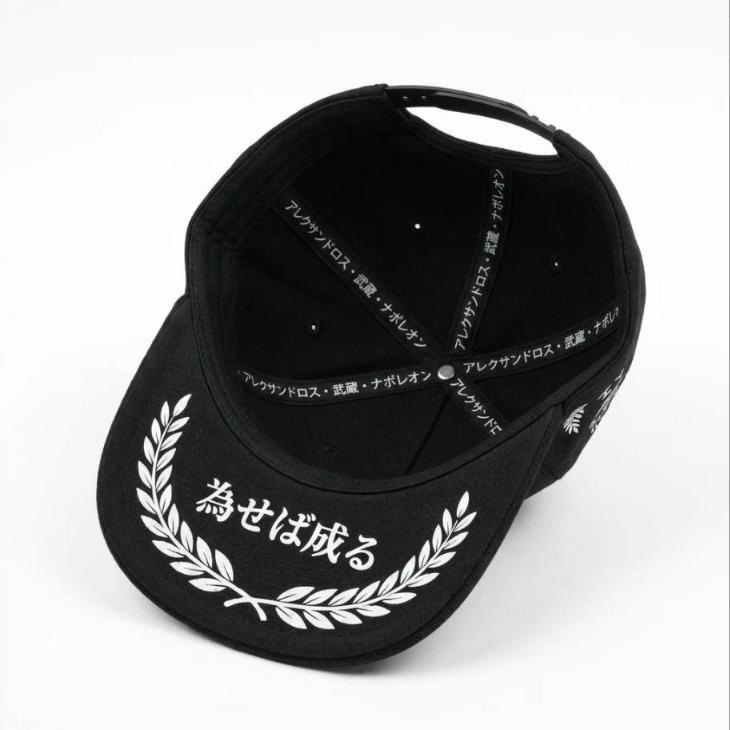
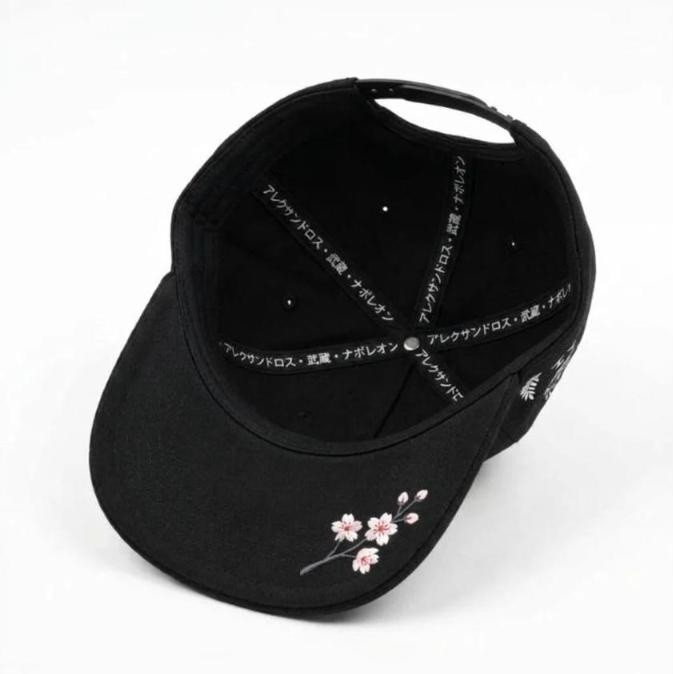
v9: frente de cerezo en la total black
El frente ya no lleva letras ni 益智X: ahora sube una enredadera de cerezo y
un ramito baja a la visera. El bajo visera queda negro liso con un ramito.
Fotos de la negra a 1024 px y planos de frente y bajo visera nuevos. La roja
sigue con el frente de la v8 y la página lo indica.

Claude-Session: https://claude.ai/code/session_018tfM2wmJfB5Sf4vx6Nwtsx

diff --git a/index.html b/index.html
@@ -8,7 +8,7 @@
 <link rel="preconnect" href="https://fonts.googleapis.com">
 <link rel="preconnect" href="https://fonts.gstatic.com" crossorigin>
 <link rel="stylesheet" href="https://fonts.googleapis.com/css2?family=Marcellus&family=IBM+Plex+Sans:wght@400;500;600&family=IBM+Plex+Mono:wght@400;500&display=swap">
-<link rel="stylesheet" href="https://fonts.googleapis.com/css2?family=Yuji+Boku&display=swap&text=%E3%81%84%E3%81%8C%E3%81%9B%E3%81%AA%E3%81%AB%E3%81%AE%E3%81%AF%E3%81%B0%E3%81%B8%E3%82%8B%E3%82%A2%E3%82%AA%E3%82%AF%E3%82%B1%E3%82%B5%E3%82%B9%E3%83%89%E3%83%8A%E3%83%8B%E3%83%9D%E3%83%9E%E3%83%AC%E3%83%AD%E3%83%B3%E4%B8%8D%E5%8F%AF%E5%A4%A7%E5%BC%B7%E6%88%90%E6%88%91%E6%9B%B8%E6%9C%80%E6%AD%A6%E7%82%BA%E7%8B%AC%E7%8E%8B%E8%80%85%E8%83%BD%E8%94%B5%E8%A1%8C%E8%BE%9E%E9%81%93%E3%83%BB%C2%B7%E7%9B%8A%E6%99%BAX">
+<link rel="stylesheet" href="https://fonts.googleapis.com/css2?family=Yuji+Boku&display=swap&text=%E3%81%84%E3%81%8C%E3%81%9B%E3%81%AA%E3%81%AB%E3%81%AE%E3%81%AF%E3%81%B0%E3%81%B8%E3%82%8B%E3%82%A2%E3%82%AA%E3%82%AF%E3%82%B1%E3%82%B5%E3%82%B9%E3%83%89%E3%83%8A%E3%83%8B%E3%83%9D%E3%83%9E%E3%83%AC%E3%83%AD%E3%83%B3%E4%B8%8D%E5%8F%AF%E5%A4%A7%E5%BC%B7%E6%88%90%E6%88%91%E6%9B%B8%E6%9C%80%E6%AD%A6%E7%82%BA%E7%8B%AC%E7%8E%8B%E8%80%85%E8%83%BD%E8%94%B5%E8%A1%8C%E8%BE%9E%E9%81%93%E3%83%BB%C2%B7%E7%9B%8A%E6%99%BAX%E6%A1%9C">
 <style>
 /* Layout: ficha técnica de taller. Plano a escala (cuadrícula de 10 mm) a la izquierda, especificación a la derecha; todo en una columna en el celular */
 :root {
@@ -339,14 +339,14 @@ footer { font-family: var(--f-mono); font-size: .76rem; color: var(--muted); bor
 
   <header class="hero">
     <div class="hero-text">
-      <span class="eyebrow">Gorra A-frame · Ficha técnica v8 · 19 oct 2026</span>
+      <span class="eyebrow">Gorra A-frame · Ficha técnica v9 · 20 oct 2026</span>
       <h1>Kratistos<span class="jp">最強の者へ</span></h1>
-      <p class="lead">Una gorra de uso diario con tres figuras que no aceptaron lo imposible. Alejandro va al frente y en el costado izquierdo, Musashi en el derecho y la corona de Napoleón en la espalda. Toda la letra va en japonés. Viene en dos colores con el mismo diseño: rojo cardenal con hilo piedra, y total black con hilo blanco.</p>
+      <p class="lead">Una gorra de uso diario con tres figuras que no aceptaron lo imposible. Al frente sube una enredadera de cerezo bordada; Alejandro va en el costado izquierdo, Musashi en el derecho y la corona de Napoleón en la espalda. Desde la v9 el frente ya no lleva letras. La total black está al día; la roja todavía muestra el frente anterior.</p>
       <ul class="facts">
         <li>Estructura A-frame de copa alta, frente rígido sin costura</li>
         <li>Dos colores: rojo cardenal y total black</li>
-        <li><span class="jp" lang="ja">益智X</span> al frente, en el color de la otra gorra</li>
-        <li>Toda la letra en japonés: kanji y katakana con trazo de pincel</li>
+        <li>Al frente, una enredadera de cerezo (<span class="jp" lang="ja">桜</span>) bordada en relieve</li>
+        <li>Costados y espalda en japonés, con trazo de pincel</li>
         <li>Talla ajustable de 56 a 60 cm</li>
       </ul>
       <nav class="jump" aria-label="Ir a cada color">
@@ -356,12 +356,12 @@ footer { font-family: var(--f-mono); font-size: .76rem; color: var(--muted); bor
     </div>
     <div class="duo">
       <figure>
-        <img src="img/r-frente.jpg" alt="Gorra roja: 最強の者へ en arco, アレクサンドロス, マケドニア y 益智X en negro al frente; busto griego en el costado" width="730" height="730">
-        <figcaption><span class="dot" style="background:var(--twill)"></span>Rojo cardenal</figcaption>
+        <img src="img/n-frente.jpg" alt="Gorra total black con la enredadera de cerezo bordada al frente y el busto en el costado" width="1024" height="1024">
+        <figcaption><span class="dot" style="background:var(--black)"></span>Total black · frente de cerezo (v9)</figcaption>
       </figure>
       <figure>
-        <img src="img/n-frente.jpg" alt="Gorra total black: la misma letra japonesa y el busto en blanco, con 益智X en rojo" width="730" height="730">
-        <figcaption><span class="dot" style="background:var(--black)"></span>Total black</figcaption>
+        <img src="img/r-frente.jpg" alt="Gorra roja con el frente anterior: 最強の者へ en arco, アレクサンドロス, マケドニア y 益智X en negro" width="730" height="730">
+        <figcaption><span class="dot" style="background:var(--twill)"></span>Rojo cardenal · frente anterior (v8)</figcaption>
       </figure>
     </div>
   </header>
@@ -370,16 +370,16 @@ footer { font-family: var(--f-mono); font-size: .76rem; color: var(--muted); bor
     <div class="section-head">
       <span class="eyebrow">Concepto</span>
       <h2 id="h-concepto">Tres figuras, una frase</h2>
-      <p>Cada zona de la gorra corresponde a una figura. Toda la letra va en japonés, con el mismo trazo de pincel que los kanji de Musashi. Debajo de la visera está la frase que las une.</p>
+      <p>Cada zona de la gorra corresponde a una figura, y al frente va el cerezo. La letra va en japonés, con el mismo trazo de pincel que los kanji de Musashi.</p>
     </div>
     <div class="figures">
       <article class="fig">
         <span class="tag">Frente</span>
-        <h3>Alejandro Magno</h3>
-        <p class="phrase" lang="ja">最強の者へ</p>
-        <p class="reading">saikyō no mono e</p>
-        <p class="tr">«Al más fuerte»</p>
-        <p class="note">Según Arriano, fue su respuesta en el lecho de muerte cuando le preguntaron a quién dejaba el imperio. Debajo dice アレクサンドロス (Alexandros) y マケドニア (Macedonia). Al pie va 益智X, chiquito, en el color de la otra gorra.</p>
+        <h3>El cerezo</h3>
+        <p class="phrase" lang="ja">桜</p>
+        <p class="reading">sakura</p>
+        <p class="tr">«Flor de cerezo»</p>
+        <p class="note">Una rama gris oxford sube por el frente y un ramito baja a la visera. 最強の者へ («al más fuerte»), la respuesta de Alejandro cuando le preguntaron a quién dejaba el imperio, sigue siendo el lema de la marca, pero ya no va bordado.</p>
       </article>
       <article class="fig">
         <span class="tag">Costado izquierdo</span>
@@ -408,7 +408,7 @@ footer { font-family: var(--f-mono); font-size: .76rem; color: var(--muted); bor
     </div>
     <div class="binding">
       <p class="phrase" lang="ja">為せば成る</p>
-      <p>«Si lo intentas, se logra». La frase es de Uesugi Yōzan, un señor feudal del siglo XVIII. Va estampada bajo la visera: solo la ve quien lleva la gorra.</p>
+      <p>«Si lo intentas, se logra». La frase es de Uesugi Yōzan, un señor feudal del siglo XVIII. Hasta la v8 iba bajo la visera; en la v9 ahí va solo un ramito de cerezo y la frase pasa a la etiqueta.</p>
     </div>
   </section>
 
@@ -423,7 +423,7 @@ footer { font-family: var(--f-mono); font-size: .76rem; color: var(--muted); bor
         <div class="band-head">
           <span class="eyebrow">Color 1</span>
           <h3 id="h-roja" class="view-title">Rojo cardenal</h3>
-          <p>Sarga roja con todo el bordado en hilo piedra y los detalles tono sobre tono en vino.</p>
+          <p>Sarga roja con todo el bordado en hilo piedra y los detalles tono sobre tono en vino. <strong>Ojo:</strong> esta vitrina todavía muestra el frente anterior (letras y 益智X); el cerezo de la v9 aún no se pasa a la roja.</p>
           <div class="chips">
             <span><i style="background:#9B1B26"></i>Sarga rojo cardenal</span>
             <span><i style="background:#D6CBB0"></i>Hilo piedra</span>
@@ -457,12 +457,12 @@ footer { font-family: var(--f-mono); font-size: .76rem; color: var(--muted); bor
         <div class="band-head">
           <span class="eyebrow">Color 2</span>
           <h3 id="h-negra" class="view-title">Total black</h3>
-          <p>Todo negro, de la tela a la correa, con el bordado en blanco y las sombras en gris carbón.</p>
+          <p>Todo negro, de la tela a la correa, con el bordado en blanco y las sombras en gris carbón. Al frente, la enredadera de cerezo en rosa pastel.</p>
           <div class="chips">
             <span><i style="background:#111111"></i>Sarga negra</span>
             <span><i style="background:#F5F5F2"></i>Hilo blanco</span>
             <span><i style="background:#3A3A3A"></i>Detalles gris carbón</span>
-            <span><i style="background:#9B1B26"></i><span class="jp" lang="ja">益智X</span> en rojo</span>
+            <span><i style="background:#F2C4CF"></i>Cerezo rosa pastel</span>
             <span><i style="background:#2B2B2B"></i>Hebilla negra mate</span>
           </div>
         </div>
@@ -475,12 +475,12 @@ footer { font-family: var(--f-mono); font-size: .76rem; color: var(--muted); bor
             <p class="view-title view-name">Frente</p>
             <p class="view-desc"></p>
             <div class="thumbs">
-              <button type="button" class="thumb" data-src="img/n-frente.jpg" data-title="Frente" data-desc="最強の者へ en arco, アレクサンドロス y マケドニア en blanco, con 益智X chiquito en rojo cardenal al pie. Del costado asoma el busto." data-alt="Gorra negra de tres cuartos: letra japonesa en blanco y 益智X en rojo"><img src="img/n-frente.jpg" alt="" loading="lazy">Frente</button>
-              <button type="button" class="thumb" data-src="img/n-busto.jpg" data-title="Costado izquierdo" data-desc="El busto griego de Alejandro en blanco, con sombras gris carbón, entre dos laureles y con el sello 大王." data-alt="Costado izquierdo de la gorra negra con el busto en blanco y el sello 大王"><img src="img/n-busto.jpg" alt="" loading="lazy">Izquierda</button>
-              <button type="button" class="thumb" data-src="img/n-musashi.jpg" data-title="Costado derecho" data-desc="Musashi: el ensō en gris carbón, las katanas y 独行道 en blanco, y el sello 武蔵." data-alt="Costado derecho de la gorra negra con ensō, katanas, 独行道 y el sello 武蔵"><img src="img/n-musashi.jpg" alt="" loading="lazy">Derecha</button>
+              <button type="button" class="thumb" data-src="img/n-frente.jpg" data-title="Frente" data-desc="Una rama de cerezo gris oxford sube por el frente, con flores rosa pastel y blanco de centro rojo cardenal, y un ramito baja a la visera. Del costado asoma el busto." data-alt="Gorra negra de tres cuartos con la enredadera de cerezo bordada al frente"><img src="img/n-frente.jpg" alt="" loading="lazy">Frente</button>
+              <button type="button" class="thumb" data-src="img/n-busto.jpg" data-title="Costado izquierdo" data-desc="El busto griego de Alejandro en blanco, con sombras gris carbón, entre dos laureles y con el sello 大王. Por la orilla asoma el cerezo del frente." data-alt="Costado izquierdo de la gorra negra con el busto en blanco y el sello 大王"><img src="img/n-busto.jpg" alt="" loading="lazy">Izquierda</button>
+              <button type="button" class="thumb" data-src="img/n-musashi.jpg" data-title="Costado derecho" data-desc="Musashi: el ensō en gris carbón, las katanas y 独行道 en blanco, y el sello 武蔵. Del otro lado asoma el cerezo." data-alt="Costado derecho de la gorra negra con ensō, katanas, 独行道 y el sello 武蔵"><img src="img/n-musashi.jpg" alt="" loading="lazy">Derecha</button>
               <button type="button" class="thumb" data-src="img/n-espalda.jpg" data-title="Espalda" data-desc="La corona real en blanco con perlas, entre dos laureles, y 我が辞書に不可能はない en arco. La hebilla es negra mate." data-alt="Espalda de la gorra negra con la corona blanca, los laureles y la frase en arco"><img src="img/n-espalda.jpg" alt="" loading="lazy">Espalda</button>
-              <button type="button" class="thumb" data-src="img/n-bajo-visera.jpg" data-title="Bajo visera" data-desc="Bajo visera negro con 為せば成る en blanco entre laureles, y la cinta interior アレクサンドロス · 武蔵 · ナポレオン." data-alt="Gorra negra boca arriba: bajo visera con 為せば成る y la cinta interior en blanco"><img src="img/n-bajo-visera.jpg" alt="" loading="lazy">Bajo visera</button>
-              <button type="button" class="thumb" data-src="img/n-lifestyle.jpg" data-title="Puesta" data-desc="Así se ve de uso diario, en la calle, en la misma toma que la roja para compararlas." data-alt="Un joven con la gorra negra en una calle de piedra"><img src="img/n-lifestyle.jpg" alt="" loading="lazy" style="object-position:50% 25%">Puesta</button>
+              <button type="button" class="thumb" data-src="img/n-bajo-visera.jpg" data-title="Bajo visera" data-desc="Bajo visera negro liso con un solo ramito de cerezo, y la cinta interior アレクサンドロス · 武蔵 · ナポレオン." data-alt="Gorra negra boca arriba: bajo visera liso con un ramito de cerezo y la cinta interior"><img src="img/n-bajo-visera.jpg" alt="" loading="lazy">Bajo visera</button>
+              <button type="button" class="thumb" data-src="img/n-lifestyle.jpg" data-title="Puesta" data-desc="Así se ve de uso diario, en la calle, en la misma toma que la roja para compararlas." data-alt="Un joven con la gorra negra de cerezo en una calle de piedra"><img src="img/n-lifestyle.jpg" alt="" loading="lazy" style="object-position:50% 25%">Puesta</button>
             </div>
             <span class="hint">Toca la foto para verla en grande<span class="touch-only"> · desliza de lado para cambiar de vista</span></span>
           </div>
@@ -493,55 +493,29 @@ footer { font-family: var(--f-mono); font-size: .76rem; color: var(--muted); bor
     <div class="section-head">
       <span class="eyebrow">Arte por zona</span>
       <h2 id="h-arte">Planos para el taller de bordado</h2>
-      <p>Cada plano muestra el panel extendido, antes de armar, sobre una cuadrícula de 10 mm. Las cotas están en milímetros. Los planos están en la versión roja; la total black usa el mismo arte, con hilo blanco donde va piedra y gris carbón donde va vino.<span class="phone-only"> En el celular, desliza cada plano de lado para verlo completo.</span></p>
+      <p>Cada plano muestra el panel extendido, antes de armar, sobre una cuadrícula de 10 mm. Las cotas están en milímetros. Los planos de costados, espalda y visera están en la versión roja; la total black usa el mismo arte, con hilo blanco donde va piedra y gris carbón donde va vino. El frente y el bajo visera ya van en la total black de la v9.<span class="phone-only"> En el celular, desliza cada plano de lado para verlo completo.</span></p>
     </div>
 
     <div class="zones">
       <article class="zone">
         <figure class="plate">
-          <svg class="art" id="svgFront" viewBox="0 0 260 165" role="img" aria-label="Panel frontal con 最強の者へ en arco, アレクサンドロス, マケドニア y 益智X en negro, con cotas de 105 por 64 milímetros">
+          <svg class="art cw-black" id="svgFront" viewBox="0 0 260 165" role="img" aria-label="Panel frontal con la enredadera de cerezo y el ramito que baja a la visera, con cotas de 110 por 125 milímetros">
             <rect class="gridrect" width="260" height="165"/>
             <path class="tw" d="M20,145 C24,70 70,15 130,15 C190,15 236,70 240,145 Q130,151 20,145 Z"/>
             <path class="seam" d="M20,145 Q130,151 240,145"/>
-            <path id="arcF" d="M80,94 Q130,66 180,94" fill="none"/>
-            <text class="t-kanji st" font-size="18" letter-spacing="1.2"><textPath href="#arcF" startOffset="50%" text-anchor="middle">最強の者へ</textPath></text>
-            <text class="t-kanji st" x="130" y="98" font-size="8" letter-spacing=".6" text-anchor="middle">アレクサンドロス</text>
-            <text class="t-kanji st" x="130" y="112" font-size="12" letter-spacing="1" text-anchor="middle">マケドニア</text>
-            <text class="t-kanji" x="130" y="128" font-size="8" letter-spacing=".8" text-anchor="middle" style="fill:var(--black)">益智X</text>
+            <image href="img/arte-cerezo.jpg" x="75" y="20" width="110" height="126.3" preserveAspectRatio="xMidYMid meet"/>
+            <rect class="refframe" x="75" y="20" width="110" height="126.3"/>
             <g id="dimFront"></g>
           </svg>
         </figure>
         <div class="spec">
-          <header><span class="tag">Zona 1 · Frente</span><h3>Alejandro Magno</h3></header>
+          <header><span class="tag">Zona 1 · Frente</span><h3>Enredadera de cerezo</h3></header>
           <dl>
-            <dt>Medida</dt><dd>105 × 64 mm con 益智X, centrado en el panel</dd>
-            <dt>Ubicación</dt><dd>益智X va a 15 mm de la costura de la visera (ver zona 2)</dd>
-            <dt>Técnica</dt><dd>Kanji y kana en satén con trazo de pincel; en los trazos gruesos, relleno tatami</dd>
-            <dt>Hilo</dt><dd>Piedra en la roja · blanco en la total black. 益智X va en el color de la otra gorra.</dd>
-            <dt>Ojo</dt><dd>Revisar cada carácter en la prueba: <span class="jp" lang="ja">最 強 の 者 へ · ア レ ク サ ン ド ロ ス · マ ケ ド ニ ア</span>. La línea en katakana mide 5 mm de alto: usar hilo fino (60 wt).</dd>
-          </dl>
-        </div>
-      </article>
-
-      <article class="zone">
-        <figure class="plate">
-          <svg class="art" id="svgMark" viewBox="0 0 150 60" role="img" aria-label="益智X bordado en negro sobre rojo y en rojo sobre negro, detalle a escala 2:1">
-            <rect class="gridrect" width="150" height="60"/>
-            <rect x="5" y="3" width="66" height="46" rx="2" class="tw"/>
-            <text class="t-kanji" x="38" y="32" font-size="16" letter-spacing="1.6" text-anchor="middle" style="fill:var(--black)">益智X</text>
-            <rect x="79" y="3" width="66" height="46" rx="2" style="fill:var(--black)"/>
-            <text class="t-kanji" x="112" y="32" font-size="16" letter-spacing="1.6" text-anchor="middle" style="fill:var(--twill)">益智X</text>
-            <g id="dimMark"></g>
-          </svg>
-        </figure>
-        <div class="spec">
-          <header><span class="tag">Zona 2 · Frente, al pie</span><h3><span class="jp" lang="ja">益智X</span></h3></header>
-          <dl>
-            <dt>Medida</dt><dd>8 mm de alto y unos 24 mm de ancho (el plano está a escala 2:1)</dd>
-            <dt>Ubicación</dt><dd>Centrado bajo マケドニア, a 15 mm de la costura de la visera. Reemplaza a la insignia de la v7.</dd>
-            <dt>Técnica</dt><dd>Bordado plano en satén, sin relleno de relieve. Es chico a propósito: es un detalle, no compite con la letra grande.</dd>
-            <dt>Color</dt><dd>Lleva el color de la otra gorra: negro (#111111) en la roja y rojo cardenal (#9B1B26) en la total black</dd>
-            <dt>Ojo</dt><dd>Tres caracteres: <span class="jp" lang="ja">益 智</span> y la X latina mayúscula</dd>
+            <dt>Medida</dt><dd>≈ 110 × 125 mm en total: la rama llena el frente y el ramito baja unos 25 mm sobre la visera</dd>
+            <dt>Ubicación</dt><dd>La rama nace abajo a la izquierda, junto a la costura de la visera, y sube en diagonal hasta la parte alta derecha del frente. El ramito va sobre la visera, a la izquierda, por dentro de la greca.</dd>
+            <dt>Técnica</dt><dd>Pétalos en satén con un poco de relleno para dar relieve; centros en nudos rojo cardenal; rama en tatami gris oxford con contorno; botones y pétalos sueltos en satén chico</dd>
+            <dt>Hilo</dt><dd>Total black: rama gris oxford (#4A4D57), pétalos rosa pastel (#F2C4CF) y blanco, centros rojo cardenal (#9B1B26). La roja todavía no tiene versión de cerezo.</dd>
+            <dt>Ojo</dt><dd>El arte es la foto de referencia: el taller digitaliza a partir de ella. Ya no lleva letras ni 益智X.</dd>
           </dl>
         </div>
       </article>
@@ -562,7 +536,7 @@ footer { font-family: var(--f-mono); font-size: .76rem; color: var(--muted); bor
           </svg>
         </figure>
         <div class="spec">
-          <header><span class="tag">Zona 3 · Costado izquierdo</span><h3>Grecia · el busto</h3></header>
+          <header><span class="tag">Zona 2 · Costado izquierdo</span><h3>Grecia · el busto</h3></header>
           <dl>
             <dt>Medida</dt><dd>El conjunto mide 92 × 80 mm; el busto solo, 55 × 62 mm</dd>
             <dt>Ubicación</dt><dd>Centrado en el panel; el sello va a 16 mm de la costura inferior</dd>
@@ -591,7 +565,7 @@ footer { font-family: var(--f-mono); font-size: .76rem; color: var(--muted); bor
           </svg>
         </figure>
         <div class="spec">
-          <header><span class="tag">Zona 4 · Costado derecho</span><h3>Miyamoto Musashi</h3></header>
+          <header><span class="tag">Zona 3 · Costado derecho</span><h3>Miyamoto Musashi</h3></header>
           <dl>
             <dt>Medida</dt><dd>105 × 66 mm, el mismo peso visual que el busto</dd>
             <dt>Ubicación</dt><dd>Centrado en el panel; el sello va a 24 mm de la costura inferior</dd>
@@ -622,7 +596,7 @@ footer { font-family: var(--f-mono); font-size: .76rem; color: var(--muted); bor
           </svg>
         </figure>
         <div class="spec">
-          <header><span class="tag">Zona 5 · Espalda</span><h3>La corona</h3></header>
+          <header><span class="tag">Zona 4 · Espalda</span><h3>La corona</h3></header>
           <dl>
             <dt>Medida</dt><dd>La corona mide 60 mm de ancho; la frase va en un arco de 108 mm y cada laurel mide 46 mm</dd>
             <dt>Ubicación</dt><dd>Centrado sobre la costura trasera; la base de la corona va a 8 mm de la abertura</dd>
@@ -643,33 +617,36 @@ footer { font-family: var(--f-mono); font-size: .76rem; color: var(--muted); bor
           </svg>
         </figure>
         <div class="spec">
-          <header><span class="tag">Zona 6 · Visera</span><h3>Greca griega</h3></header>
+          <header><span class="tag">Zona 5 · Visera</span><h3>Greca griega</h3></header>
           <dl>
             <dt>Medida</dt><dd>Banda de 4 mm a lo largo de todo el borde exterior</dd>
             <dt>Ubicación</dt><dd>A 2 mm del canto, por fuera de los 8 pespuntes</dd>
             <dt>Técnica</dt><dd>Pespunte triple (bean stitch), tono sobre tono: vino en la roja, gris carbón en la total black</dd>
             <dt>Pespuntes</dt><dd>8 filas tono sobre tono</dd>
+            <dt>Cerezo</dt><dd>El ramito del frente baja sobre la visera, por dentro de la greca (ver zona 1)</dd>
           </dl>
         </div>
       </article>
 
       <article class="zone">
         <figure class="plate">
-          <svg class="art" id="svgUnder" viewBox="0 0 260 130" role="img" aria-label="Bajo visera gris con corona de laurel y 為せば成る">
+          <svg class="art" id="svgUnder" viewBox="0 0 260 130" role="img" aria-label="Bajo visera negro liso con un ramito de cerezo cerca de la esquina izquierda">
             <rect class="gridrect" width="260" height="130"/>
-            <path d="M15,40 Q130,190 245,40 L215,25 Q130,80 45,25 Z" style="fill:var(--brim-grey)"/>
+            <path d="M15,40 Q130,190 245,40 L215,25 Q130,80 45,25 Z" style="fill:var(--black)"/>
             <g id="underBrim"></g>
-            <text class="t-kanji st" x="130" y="86" font-size="13" letter-spacing="1.2" text-anchor="middle">為せば成る</text>
+            <image href="img/arte-ramito.jpg" x="62" y="58" width="50" height="37.5" preserveAspectRatio="xMidYMid meet"/>
+            <rect class="refframe" x="62" y="58" width="50" height="37.5"/>
             <g id="dimUnder"></g>
           </svg>
         </figure>
         <div class="spec">
-          <header><span class="tag">Zona 7 · Bajo visera</span><h3>La frase que las une</h3></header>
+          <header><span class="tag">Zona 6 · Bajo visera</span><h3>Un ramito de cerezo</h3></header>
           <dl>
-            <dt>Medida</dt><dd>70 × 45 mm, centrado</dd>
-            <dt>Técnica</dt><dd>Serigrafía a una tinta, antes de armar la visera</dd>
-            <dt>Colores</dt><dd>Roja: tela gris con tinta piedra (en el mockup salió gris oscuro, que también funciona). Total black: tela negra con tinta blanca.</dd>
-            <dt>Ojo</dt><dd><span class="jp" lang="ja">為 せ ば 成 る</span>, cuatro caracteres</dd>
+            <dt>Medida</dt><dd>≈ 50 × 38 mm</dd>
+            <dt>Ubicación</dt><dd>Cerca de la esquina izquierda del bajo visera; el resto queda negro liso</dd>
+            <dt>Técnica</dt><dd>Bordado plano antes de armar la visera (si el taller no borda ahí, estampado)</dd>
+            <dt>Colores</dt><dd>Total black: bajo visera negro, rama gris oxford y flores rosa pastel con centro rojo. La roja: pendiente.</dd>
+            <dt>Ojo</dt><dd>En la v9 se quitaron los laureles y <span class="jp" lang="ja">為せば成る</span> de la v8</dd>
           </dl>
         </div>
       </article>
@@ -681,7 +658,7 @@ footer { font-family: var(--f-mono); font-size: .76rem; color: var(--muted); bor
           <span class="eyebrow">Cinta de 15 mm · repetición cada 80 mm</span>
         </div>
         <div class="spec">
-          <header><span class="tag">Zona 8 · Interior</span><h3>Cinta interior</h3></header>
+          <header><span class="tag">Zona 7 · Interior</span><h3>Cinta interior</h3></header>
           <dl>
             <dt>Cinta</dt><dd>Cubre las costuras internas. Lleva los tres nombres en bucle: Alejandro, Musashi y Napoleón.</dd>
             <dt>Colores</dt><dd>Piedra sobre rojo en la roja; blanco sobre negro en la total black</dd>
@@ -700,10 +677,10 @@ footer { font-family: var(--f-mono); font-size: .76rem; color: var(--muted); bor
       <table>
         <tbody>
           <tr><th scope="row">Modelo</th><td>A-frame de copa alta, 5 paneles: frente alto y rígido con entretela (buckram), sin costura central, que sube recto desde la visera. Dos paneles laterales y dos traseros.</td></tr>
-          <tr><th scope="row">Colores</th><td>Rojo cardenal, con hilo piedra y detalles en vino. Total black, con hilo blanco y detalles en gris carbón. El diseño es el mismo en los dos.</td></tr>
+          <tr><th scope="row">Colores</th><td>Rojo cardenal, con hilo piedra y detalles en vino. Total black, con hilo blanco y detalles en gris carbón. Desde la v9 el frente es de cerezo; la roja todavía tiene el frente anterior.</td></tr>
           <tr><th scope="row">Tela</th><td>Sarga de algodón 100 %</td></tr>
           <tr><th scope="row">Visera</th><td>Precurvada, con 8 pespuntes tono sobre tono y la greca. Bajo visera: gris en la roja, negro en la total black.</td></tr>
-          <tr><th scope="row">益智X</th><td>Bordado plano de 8 mm al pie del frente (zona 2): negro en la roja, rojo cardenal en la total black</td></tr>
+          <tr><th scope="row">Cerezo</th><td>Enredadera bordada al frente con un ramito sobre la visera (zona 1) y un ramito chiquito bajo la visera (zona 6). Por ahora solo en la total black.</td></tr>
           <tr><th scope="row">Ojales</th><td>4, bordados tono sobre tono (2 laterales y 2 traseros)</td></tr>
           <tr><th scope="row">Botón</th><td>Forrado en la misma tela</td></tr>
           <tr><th scope="row">Banda interior</th><td>Algodón, para el sudor</td></tr>
@@ -718,7 +695,7 @@ footer { font-family: var(--f-mono); font-size: .76rem; color: var(--muted); bor
   <section id="paleta" aria-labelledby="h-paleta">
     <div class="section-head">
       <span class="eyebrow">Paleta</span>
-      <h2 id="h-paleta">Dos colores, el mismo diseño</h2>
+      <h2 id="h-paleta">Dos colores</h2>
       <p>Los códigos son de pantalla. Para producir, pedir al taller su carta de hilos y elegir el tono más cercano con la tela delante.</p>
     </div>
     <div class="palettes">
@@ -730,17 +707,18 @@ footer { font-family: var(--f-mono); font-size: .76rem; color: var(--muted); bor
           <div class="sw"><div class="chip" style="background:var(--wine)"></div><b>Vino</b><code>#6E0F18</code><span>Sombras, sellos y greca</span></div>
           <div class="sw"><div class="chip" style="background:var(--brim-grey)"></div><b>Gris</b><code>#8A8A85</code><span>Bajo visera</span></div>
           <div class="sw"><div class="chip" style="background:var(--brass)"></div><b>Latón envejecido</b><code>#9A7B4F</code><span>Hebilla</span></div>
-          <div class="sw"><div class="chip" style="background:var(--black)"></div><b>Negro</b><code>#111111</code><span>益智X</span></div>
+          <div class="sw"><div class="chip" style="background:var(--black)"></div><b>Negro</b><code>#111111</code><span>益智X (frente v8)</span></div>
         </div>
       </div>
       <div class="palette">
         <h3>Total black</h3>
-        <div class="swatches">
+        <div class="swatches six">
           <div class="sw"><div class="chip" style="background:var(--black)"></div><b>Negro</b><code>#111111</code><span>Tela, visera, bajo visera y correa</span></div>
           <div class="sw"><div class="chip" style="background:var(--white-thread)"></div><b>Blanco</b><code>#F5F5F2</code><span>Hilo principal y tintas</span></div>
-          <div class="sw"><div class="chip" style="background:var(--charcoal)"></div><b>Gris carbón</b><code>#3A3A3A</code><span>Sombras, sellos y greca</span></div>
+          <div class="sw"><div class="chip" style="background:var(--charcoal)"></div><b>Gris carbón</b><code>#3A3A3A</code><span>Sombras, sellos, greca y la rama del cerezo</span></div>
           <div class="sw"><div class="chip" style="background:var(--matte-black)"></div><b>Negro mate</b><code>#2B2B2B</code><span>Hebilla</span></div>
-          <div class="sw"><div class="chip" style="background:var(--twill)"></div><b>Rojo cardenal</b><code>#9B1B26</code><span>益智X</span></div>
+          <div class="sw"><div class="chip" style="background:#F2C4CF"></div><b>Rosa pastel</b><code>#F2C4CF</code><span>Pétalos del cerezo</span></div>
+          <div class="sw"><div class="chip" style="background:var(--twill)"></div><b>Rojo cardenal</b><code>#9B1B26</code><span>Centros de las flores</span></div>
         </div>
       </div>
     </div>
@@ -750,11 +728,11 @@ footer { font-family: var(--f-mono); font-size: .76rem; color: var(--muted); bor
     <div class="section-head">
       <span class="eyebrow">Prompt</span>
       <h2 id="h-prompt">Prompt maestro para generar la gorra</h2>
-      <p>Funciona en Google Flow y en otros generadores de imágenes. Para que salga la misma forma, adjunta como referencia la foto del frente. Para la total black conviene adjuntar la foto roja y pedir solo un cambio de colores: así la letra japonesa no se traduce ni se deforma.</p>
+      <p>Funciona en Google Flow y en otros generadores de imágenes. Para que salga la misma forma, adjunta como referencia la foto del frente. Para la total black v9, adjunta la foto de la negra y pide solo el cambio del frente: así no se mueven los costados ni la espalda.</p>
     </div>
     <div class="prompt-box">
       <div class="prompt-bar">
-        <span class="eyebrow">Inglés · rojo cardenal</span>
+        <span class="eyebrow">Inglés · rojo cardenal (frente v8, con letras)</span>
         <button type="button" class="copy" data-copy="promptRed">Copiar prompt</button>
       </div>
       <pre id="promptRed">A structured A-frame high-crown 5-panel cap in deep cardinal red (#9B1B26) cotton twill: tall, firm, seamless front panel (stiff buckram) rising steeply from a pre-curved brim with 8 rows of tonal stitching, embroidered eyelets, covered top button, grey underside of the brim.
@@ -767,10 +745,10 @@ TOP OF THE BRIM: thin Greek key (meander) border along the edge in wine thread.
 UNDER THE BRIM: grey fabric printed with a laurel wreath and, inside it, 為せば成る. Inner taping printed in stone: アレクサンドロス · 武蔵 · ナポレオン repeated.
 Hyper-realistic e-commerce catalog photo, 1:1, white seamless background, soft diffused studio light, natural soft shadow. Write every Japanese character exactly as given, not mirrored. No Greek, Latin or French letters, no stickers, no watermark.</pre>
       <div class="prompt-bar">
-        <span class="eyebrow">Inglés · total black (con la foto roja adjunta)</span>
+        <span class="eyebrow">Inglés · total black v9 (con la foto de la negra adjunta)</span>
         <button type="button" class="copy" data-copy="promptBlack">Copiar prompt</button>
       </div>
-      <pre id="promptBlack">Recolor the attached photo, nothing else. Pure color change of the same photo: same cap, same angle, same composition and EXACTLY the same Japanese characters in the same places. Do not translate, do not rewrite, no Latin letters. New colors: the whole cap jet black (#111111), including brim, underside of the brim, button and strap; every letter, line art and print in bright white (#F5F5F2); shading, seals, the enso and the Greek key border in charcoal grey (#3A3A3A); the buckle in matte black metal. The small text 益智X under マケドニア goes in deep cardinal red (#9B1B26). White seamless background, 1:1.</pre>
+      <pre id="promptBlack">Edit the attached photo of the black A-frame cap and change ONLY the front panel: remove all the text there and embroider a cherry blossom vine instead. A charcoal-grey (#4A4D57) branch climbs diagonally from the lower left of the front panel, near the visor seam, to the upper right of the crown, with clusters of five-petal sakura blossoms in pale pink (#F2C4CF) and white (#F5F5F2) satin stitch with small cardinal red (#9B1B26) centers, buds and a few falling petals, plus a small blossom sprig on the visor inside the Greek key border. Raised 3D embroidery, elegant Japanese style, not cartoon. Keep everything else exactly the same: the Greek bust with 大王 on the left panel, Musashi with 独行道 on the right, the crown on the back and the grey Greek key border on the brim. Under the brim: plain black with only one small cherry blossom sprig. No other text on the front. White seamless background, 1:1.</pre>
     </div>
   </section>
 
@@ -784,7 +762,7 @@ Hyper-realistic e-commerce catalog photo, 1:1, white seamless background, soft d
         <div class="name">KRATISTOS</div>
         <div class="sub" lang="ja">最強の者へ</div>
         <p>Tres figuras que no aceptaron un no por respuesta. Alejandro dejó su imperio al más fuerte. Musashi escribió el camino de andar solo. Napoleón dijo que en su diccionario no existía la palabra imposible.</p>
-        <p>Debajo de la visera va lo que las une: <span class="jp" lang="ja">為せば成る</span>, si lo intentas, se logra.</p>
+        <p>Al frente, un cerezo. Y lo que las une: <span class="jp" lang="ja">為せば成る</span>, si lo intentas, se logra.</p>
         <p class="care">Sarga de algodón 100 % · Bordada · Talla 56–60 cm<br>Rojo cardenal · Total black<br>Lavar a mano en frío · No usar secadora</p>
       </div>
       <div class="hang-notes">
@@ -795,7 +773,7 @@ Hyper-realistic e-commerce catalog photo, 1:1, white seamless background, soft d
   </section>
 
   <footer>
-    <span>Kratistos · ficha técnica v8 · 19 de octubre de 2026</span>
+    <span>Kratistos · ficha técnica v9 · 20 de octubre de 2026</span>
     <span>Mockups generados con Google Flow (Nano Banana 2.1). Arte vectorial de referencia para el digitalizador.</span>
   </footer>
 </div>
@@ -956,16 +934,9 @@ Hyper-realistic e-commerce catalog photo, 1:1, white seamless background, soft d
 
   // ---- Zona 1: frente
   const gF = $("dimFront");
-  dim(gF, 77.5, 58, 182.5, 58, "105 mm", -1);
-  dim(gF, 196, 66, 196, 130, "64 mm", 1);
-  dim(gF, 150, 130, 150, 145.5, "15", 1);
+  dim(gF, 75, 14, 185, 14, "110 mm", -1);
+  dim(gF, 200, 20, 200, 146, "≈125 mm", 1);
   note(gF, 24, 160, "costura de la visera ↑", "start");
-
-  // ---- Zona 2: 益智X (detalle 2:1)
-  const gM = $("dimMark");
-  dim(gM, 14, 40, 62, 40, "24 mm", 1);
-  note(gM, 38, 56, "rojo cardenal · escala 2:1", "middle");
-  note(gM, 112, 56, "total black", "middle");
 
   // ---- Zona 3: busto (arte de referencia)
   const gB = $("dimBust");
@@ -1058,11 +1029,8 @@ Hyper-realistic e-commerce catalog photo, 1:1, white seamless background, soft d
   (function under() {
     const g = $("underBrim");
     for (let k = 0; k < 8; k++) mk("path", { d: brimCurve(0.16 + k * 0.085), class: "stitch-g" }, g);
-    laurel(g, "M117,104 Q93,97 96,63", 7, 5.2, "st", "stS");
-    laurel(g, "M143,104 Q167,97 164,63", 7, 5.2, "st", "stS");
     const d6 = $("dimUnder");
-    dim(d6, 92, 14, 168, 14, "70 mm", -1);
-    dim(d6, 236, 60, 236, 106, "45 mm", 1);
+    dim(d6, 62, 50, 112, 50, "≈50 mm", -1);
   })();
 
   // Copiar los prompts
